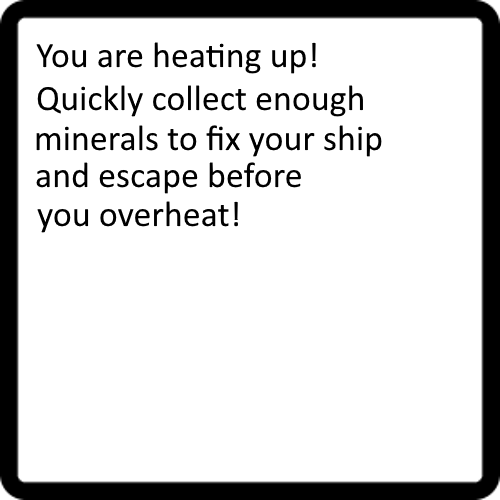
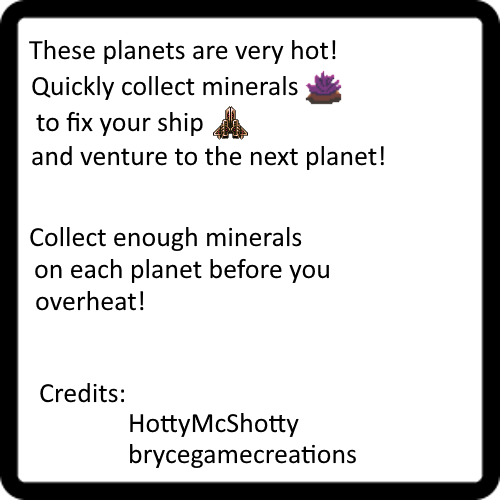
spaceship, win and lose, bugfixes

diff --git a/main.py b/main.py
@@ -14,6 +14,8 @@ SCREEN = pygame.display.set_mode((SCREEN_WIDTH, SCREEN_HEIGHT))
 pygame.display.set_caption("Planet Heatwave")
 clock = pygame.time.Clock()
 font = pygame.font.SysFont("None", 25)
+last_updated = pygame.time.get_ticks()
+animation_cooldown = 70
 
 # Colors
 WHITE = (255, 255, 255)
@@ -26,15 +28,21 @@ pygame.mixer.music.play(-1)
 
 all_sprites = pygame.sprite.Group()
 
+player_sprites = Spritesheet('gfx/Sprite-0007.png')
+
+still_frame = player_sprites.get_sprite(0,0,32,48)
+walking_frames = [player_sprites.parse_sprite('Sprite-0007 0.'),player_sprites.parse_sprite('Sprite-0007 1.'),player_sprites.parse_sprite('Sprite-0007 2.'),player_sprites.parse_sprite('Sprite-0007 3.'),player_sprites.parse_sprite('Sprite-0007 4.'),player_sprites.parse_sprite('Sprite-0007 5.'),player_sprites.parse_sprite('Sprite-0007 6.'),player_sprites.parse_sprite('Sprite-0007 7.'),player_sprites.parse_sprite('Sprite-0007 8.'),player_sprites.parse_sprite('Sprite-0007 9.')]
+index = 0
+
 # Player class
 class Player(pygame.sprite.Sprite):
     global timer
     def __init__(self):
         super().__init__()
-        self.image = pygame.image.load("gfx/img.png").convert_alpha()
+        self.image = still_frame
         self.rect = self.image.get_rect()
         self.rect.center = (SCREEN_WIDTH // 2, SCREEN_HEIGHT // 2)
-        self.speed = 5
+        self.speed = 4
         self.timer = 0
         self.heat = 0
         self.heat_limit = 20
@@ -43,12 +51,16 @@ class Player(pygame.sprite.Sprite):
         keys = pygame.key.get_pressed()
         if keys[pygame.K_w] or keys[pygame.K_UP]:
             self.rect.y -= self.speed
+            player.image = walking_frames[index]
         if keys[pygame.K_a] or keys[pygame.K_LEFT]:
             self.rect.x -= self.speed
+            player.image = walking_frames[index]
         if keys[pygame.K_s] or keys[pygame.K_DOWN]:
             self.rect.y += self.speed    
+            player.image = walking_frames[index]
         if keys[pygame.K_d] or keys[pygame.K_RIGHT]:
             self.rect.x += self.speed
+            player.image = pygame.transform.flip(walking_frames[index], True, False)
         
     def heat_meter(self):
         pygame.draw.rect(SCREEN, BLACK, (SCREEN_WIDTH-50, 50, 30, SCREEN_HEIGHT-100), 1)
@@ -129,16 +141,23 @@ def main_menu():
 # go here first
 main_menu()
 
-mineral_surf = pygame.image.load("gfx/mineral.png")
+mineral_surf = pygame.image.load("gfx/mineral_F.png")
+mineral_surf = pygame.transform.scale(mineral_surf, (40,37))
 mineral_rect = pygame.Rect(random.randint(50,720),random.randint(50,550),18,18)
 mineral_count = 0
 
 planet1_bg = pygame.image.load("gfx/planet1_bg.png").convert_alpha()
 
+spaceship_surf = pygame.image.load("gfx/ship.png").convert_alpha()
+spaceship_surf = pygame.transform.scale(spaceship_surf, (64,64))
+spaceship_rect = pygame.Rect(SCREEN_WIDTH-150, 100, 35,35)
+
+win_text = pygame.image.load("gfx/win.png").convert_alpha()
+
 # The levels
 planet1_status = False
 def planet1_env():
-    global planet1_status, main_menu_status, mineral_count
+    global planet1_status, main_menu_status, mineral_count, last_updated, animation_cooldown, index
     print("Planet 1 environment")
     while planet1_status:
         for event in pygame.event.get():
@@ -146,16 +165,22 @@ def planet1_env():
                 pygame.quit()
             if event.type == pygame.MOUSEBUTTONDOWN:
                 mouse_pos = event.pos
-                if restart_rect.collidepoint(mouse_pos):
-                    player.heat = 0
-                    planet1_env()
-                elif quit_button_rect.collidepoint(mouse_pos):
-                    planet1_status = False
-                    main_menu_status = True
-                    player.heat = 0
-                    main_menu()
+                if player.heat == 500 or player.heat == 0:
+                    if restart_rect.collidepoint(mouse_pos):
+                        player.heat = 0
+                        mineral_count = 0
+                        planet1_env()
+                    elif quit_button_rect.collidepoint(mouse_pos):
+                        planet1_status = False
+                        main_menu_status = True
+                        player.heat = 0
+                        mineral_count = 0
+                        main_menu()
         
-        
+        current_time = pygame.time.get_ticks()
+        if current_time - last_updated > animation_cooldown:  
+            index = (index + 1) % len(walking_frames)
+            last_updated = current_time
 
         if player.rect.colliderect(mineral_rect):
             mineral_rect.x = random.randint(50,750)
@@ -164,18 +189,25 @@ def planet1_env():
 
         all_sprites.update()
         SCREEN.blit(planet1_bg, (0,0))
-
+        SCREEN.blit(spaceship_surf, spaceship_rect)
 
         SCREEN.blit(mineral_surf, mineral_rect)
         mineral_count_text = font.render(f"Minerals: {mineral_count}/10", True, BLACK)
         SCREEN.blit(mineral_count_text, (50,50))
+
+        if player.rect.colliderect(spaceship_rect):
+            if mineral_count >= 10:
+                player.heat = 0
+                SCREEN.blit(win_text, (SCREEN_WIDTH/2-150, 100))
+                SCREEN.blit(restart_surf, restart_rect)
+                SCREEN.blit(quit_button_surf, quit_button_rect)
 
         player.heat_meter()
         if player.heat >= 500:
             player.rect.x = 50
             player.rect.y = 50
             player.heat = 500
-            SCREEN.blit(overheated_text, (SCREEN_WIDTH/2-200,100))
+            SCREEN.blit(overheated_text, (SCREEN_WIDTH/2-230,100))
             SCREEN.blit(restart_surf, restart_rect)
             SCREEN.blit(quit_button_surf, quit_button_rect)
             
